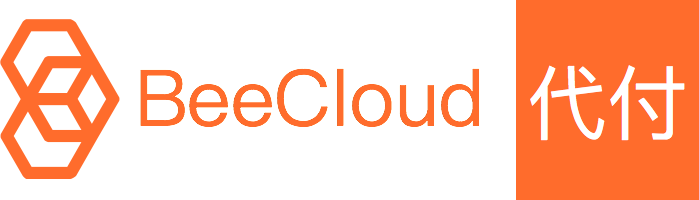
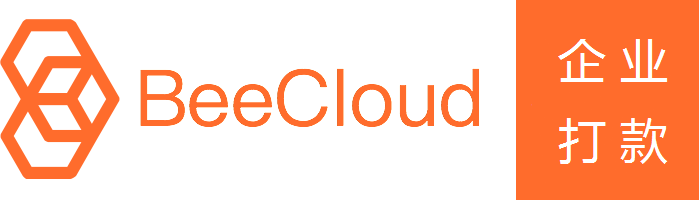
add bc express

Changed region(s): [[0.7511, 0.18, 0.9914, 0.84]]

diff --git a/demo/static/index.html b/demo/static/index.html
@@ -85,7 +85,7 @@
 <form method="post" action="/bill" target="_blank" style="width:85%;margin: 0 auto;">
     <div>
         <p style="text-align:left; font-size:1.5em; margin-left:1em; margin-top:2em; margin-bottom:0.5em">
-            选择以下平台，支付<b>1分钱</b></p>
+            选择以下平台，支付<b>2分钱</b></p>
         <ul class="clear" style="margin-top:20px">
             <li class="clicked" onclick="switch_img(this)">
                 <input type="radio" value="ALI_WEB" name="channel" checked="checked">
@@ -150,6 +150,14 @@
             <li onclick="switch_img(this)">
                 <input type="radio" value="PAYPAL_PAYPAL" name="channel">
                 <img src="http://beeclouddoc.qiniudn.com/paypal.png" alt="PAYPAL PAYPAL">
+            </li>
+            <li onclick="switch_img(this)">
+                <input type="radio" value="BC_GATEWAY" name="channel">
+                <img src="static/gateway_pay.png" alt="BC GATEWAY">
+            </li>
+            <li onclick="switch_img(this)">
+                <input type="radio" value="BC_EXPRESS" name="channel">
+                <img src="static/bc_express.png" alt="BC EXPRESS">
             </li>
             <!--
             <li onclick="switch_img(this)">
@@ -240,6 +248,10 @@
             <li onclick="switch_img(this)">
                 <input type="radio" value="BD" name="channel">
                 <img src="http://beeclouddoc.qiniudn.com/bd.png" alt="BAIDU">
+            </li>
+            <li onclick="switch_img(this)">
+                <input type="radio" value="BC" name="channel">
+                <img src="static/bc.png" alt="BeeCloud">
             </li>
             <li onclick="switch_img(this)">
                 <input type="radio" value="ALL" name="channel">

diff --git a/demo/static/choose_bank.html b/demo/static/choose_bank.html
@@ -1,0 +1,27 @@
+<!DOCTYPE html>
+<html lang="en">
+<head>
+    <meta charset="UTF-8">
+    <title>订单信息</title>
+</head>
+<body>
+<form method="post" action="/bill" target="_blank" style="width:85%;margin: 0 auto;">
+<input type="hidden" name="channel" value="BC_GATEWAY" /> 
+<select name="bank">
+  <option value ="CMB">招商银行</option>
+  <option value ="ICBC">工商银行</option>
+  <option value="BOC">中国银行</option>
+  <option value="ABC">农业银行</option>
+  <option value ="BOCM">交通银行</option>
+  <option value ="SPDB">浦发银行</option>
+  <option value="GDB">广发银行</option>
+  <option value="CITIC">中信银行</option>
+  <option value ="CEB">光大银行</option>
+  <option value ="CIB">兴业银行</option>
+  <option value="SDB">平安银行</option>
+  <option value="CMBC">民生银行</option>
+</select>
+<input type="submit" class="button" value="确认付款" />
+</form>
+</body>
+</html>

diff --git a/demo/templates/qrcode.html b/demo/templates/qrcode.html
@@ -14,7 +14,7 @@
     </script>
 </head>
 <body>
-<h3 style="color: #ff6c2c">本页面展示WX_NATIVE（微信公众号二维码支付），扫描二维码支付 1分钱</h3>
+<h3 style="color: #ff6c2c">本页面展示WX_NATIVE（微信公众号二维码支付），扫描二维码支付 2分钱</h3>
 <div id="qrcode" style="width:500px;margin:50px auto"></div>
 </body>
 </html>

diff --git a/demo/demo.py b/demo/demo.py
@@ -60,16 +60,27 @@ def app_bill():
         else:
             open_id = fetch_open_id(wx_appid, wx_app_secret, code)
             return _deal_with_normal_pay(channel, open_id)
+    elif channel == 'BC_GATEWAY':
+        bank = request.form.get('bank')
+        if not bank:
+            return app.send_static_file('choose_bank.html')
+        else:
+            return _deal_with_normal_pay('BC_GATEWAY', '', bank)
     else:
         return _deal_with_normal_pay(channel, '')
 
 
-def _deal_with_normal_pay(channel, open_id):
+def _deal_with_normal_pay(channel, open_id, bank=None):
     # wx js api 需要先获取支付人的open id
     req_params = BCPayReqParams()
+
+    # 当channel为BC_GATEWAY时，bank必填
+    if channel == 'BC_GATEWAY':
+        req_params.bank = bank
+
     req_params.channel = channel
     req_params.title = u'python {:s} 支付测试'.format(channel)
-    req_params.total_fee = 1
+    req_params.total_fee = 2
     req_params.bill_no = order_num_on_datetime()
     req_params.optional = {'lang': 'python', u'中文key': u'中文value'}
     # 支付完成后的跳转页面
@@ -293,13 +304,13 @@ def app_transfer():
         transfer_params.transfer_data = [item1, item2]
 
         result = bc_pay.batch_transfer(transfer_params)
-    elif channel == 'BC_TRANSFER':  # 比可代付
+    elif channel == 'BC_TRANSFER':  # 比可企业打款
         transfer_params = BCCardTransferParams()
         # 单位为分
         transfer_params.total_fee = 1
         transfer_params.bill_no = order_num_on_datetime()
         # 最长支持16个汉字
-        transfer_params.title = u'python比可代付测试'
+        transfer_params.title = u'python比可企业打款测试'
         # 银行缩写编码
         transfer_params.bank_code = 'BOC'
         # 银行联行行号
@@ -342,7 +353,7 @@ def app_transfer():
             # 微信红包1.00-200元
             transfer_params.total_fee = 100
             transfer_params.channel_user_id = 'o3kKrjlUsMnv__cK5DYZMl0JoAkY'
-        else:
+        else:       # ALI_TRANSFER 支付宝单笔打款
             transfer_params.transfer_no = order_num_on_datetime()
             transfer_params.total_fee = 1
             transfer_params.channel_user_id = 'py@beecloud.cn'
@@ -351,6 +362,9 @@ def app_transfer():
 
         result = bc_pay.transfer(transfer_params)
 
+    if not result.result_code:
+        print("beecloud transfer object id: " + result.id)
+    
     if hasattr(result, 'url') and result.url:
         # 支付宝需要跳转到如下支付宝链接输入支付密码确认
         return redirect(result.url)

diff --git a/sdk/beecloud/query.py b/sdk/beecloud/query.py
@@ -8,7 +8,7 @@
     :license: MIT, see LICENSE for more details.
 """
 
-from beecloud.entity import BCResult, BCBill, BCRefund, BCReqType
+from beecloud.entity import BCResult, BCBill, BCRefund, BCReqType, _TmpObject
 from beecloud.utils import get_random_host, http_get, obj_to_quote_str, set_common_attr, \
     report_not_supported_err, attach_app_sign
 
@@ -268,7 +268,3 @@ class BCQuery:
             bc_result.refund_status = resp_dict.get('refund_status')
 
         return bc_result
-
-
-class _TmpObject:
-    pass

diff --git a/sdk/beecloud/entity.py b/sdk/beecloud/entity.py
@@ -83,6 +83,12 @@ class BCChannelType:
     BD_WAP = 'BD_WAP'
     BD_WEB = 'BD_WEB'
 
+    BC = 'BC'
+    BC_GATEWAY = 'BC_GATEWAY'
+    BC_APP = 'BC_APP'
+    BC_EXPRESS = 'BC_EXPRESS'
+    BC_TRANSFER = 'BC_TRANSFER'
+
 
 class BCReqType:
     PAY = 0
@@ -443,3 +449,6 @@ class BCPayPalCreditCard:
 
         # 卡类别
         self.card_type = None
+
+class _TmpObject:
+    pass

diff --git a/sdk/beecloud/__init__.py b/sdk/beecloud/__init__.py
@@ -6,7 +6,7 @@
     :license: MIT, see LICENSE for more details.
 """
 
-BEECLOUD_PYTHON_SDK_VERSION = '3.0.0'
+BEECLOUD_PYTHON_SDK_VERSION = '3.1.0'
 BEECLOUD_HOSTS = ['https://apibj.beecloud.cn', 'https://apisz.beecloud.cn',
                   'https://apiqd.beecloud.cn', 'https://apihz.beecloud.cn']
 BEECLOUD_RESTFUL_VERSION = '/2/'

diff --git a/sdk/beecloud/pay.py b/sdk/beecloud/pay.py
@@ -171,6 +171,7 @@ class BCPay:
         set_common_attr(resp_dict, bc_result)
 
         if not bc_result.result_code:
+            bc_result.id = resp_dict.get('id')
             # for ali
             bc_result.url = resp_dict.get('url')
 

diff --git a/sdk/setup.py b/sdk/setup.py
@@ -12,7 +12,7 @@ except ImportError:
 
 setup(
     name='beecloud',
-    version='3.0.0',
+    version='3.1.0',
     packages=['beecloud'],
     url='https://beecloud.cn/',
     license='MIT License',

diff --git a/README.md b/README.md
@@ -1,6 +1,6 @@
 ## BeeCloud Python SDK (Open Source)
 
-[![Build Status](https://travis-ci.org/beecloud/beecloud-python.svg)](https://travis-ci.org/beecloud/beecloud-python) ![license](https://img.shields.io/badge/license-MIT-brightgreen.svg) ![version](https://img.shields.io/badge/version-v3.0.0-blue.svg)
+[![Build Status](https://travis-ci.org/beecloud/beecloud-python.svg)](https://travis-ci.org/beecloud/beecloud-python) ![license](https://img.shields.io/badge/license-MIT-brightgreen.svg) ![version](https://img.shields.io/badge/version-v3.1.0-blue.svg)
 
 ## 简介
 
@@ -171,11 +171,11 @@ result = bc_pay.audit_pre_refunds(req_params)
 可以参考`demo.py`中`app_transfer`
 
 #### 原型：
-打款分**单笔打款**、**比可银行卡代付**、**批量打款**；  
+打款分**单笔打款**、**比可企业打款**、**批量打款**；  
 
  * **单笔打款**包含`WX_REDPACK`（微信红包）、`WX_TRANSFER`（微信企业打款）和`ALI_TRANSFER`（支付宝企业打款），通过`BCPay`的实例，以`transfer`方法，结合`BCTransferReqParams`参数发起打款；  
 
- * **比可银行卡代付**通过`BCPay`的实例，以`bc_transfer`方法，结合`BCCardTransferParams`参数发起代付；
+ * **比可企业打款**通过`BCPay`的实例，以`bc_transfer`方法，结合`BCCardTransferParams`参数发起代付；
   
  * **批量打款**目前只支持`ALI`（支付宝批量打款），通过`BCPay`的实例，以`batch_transfer`方法，结合`BCBatchTransferParams`参数发起打款；
 
@@ -203,7 +203,7 @@ result = bc_pay.transfer(transfer_params)
 # 对于支付宝需要重定向到result.url
 ```
   
-***比可银行卡代付***
+***比可企业打款***
 
 ```python
 transfer_params = BCCardTransferParams()
@@ -211,7 +211,7 @@ transfer_params = BCCardTransferParams()
 transfer_params.total_fee = 1
 transfer_params.bill_no = order_num_on_datetime()
 # 最长支持16个汉字
-transfer_params.title = u'python比可代付测试'
+transfer_params.title = u'python比可企业打款测试'
 # 银行缩写编码
 transfer_params.bank_code = 'BOC'
 # 银行联行行号
